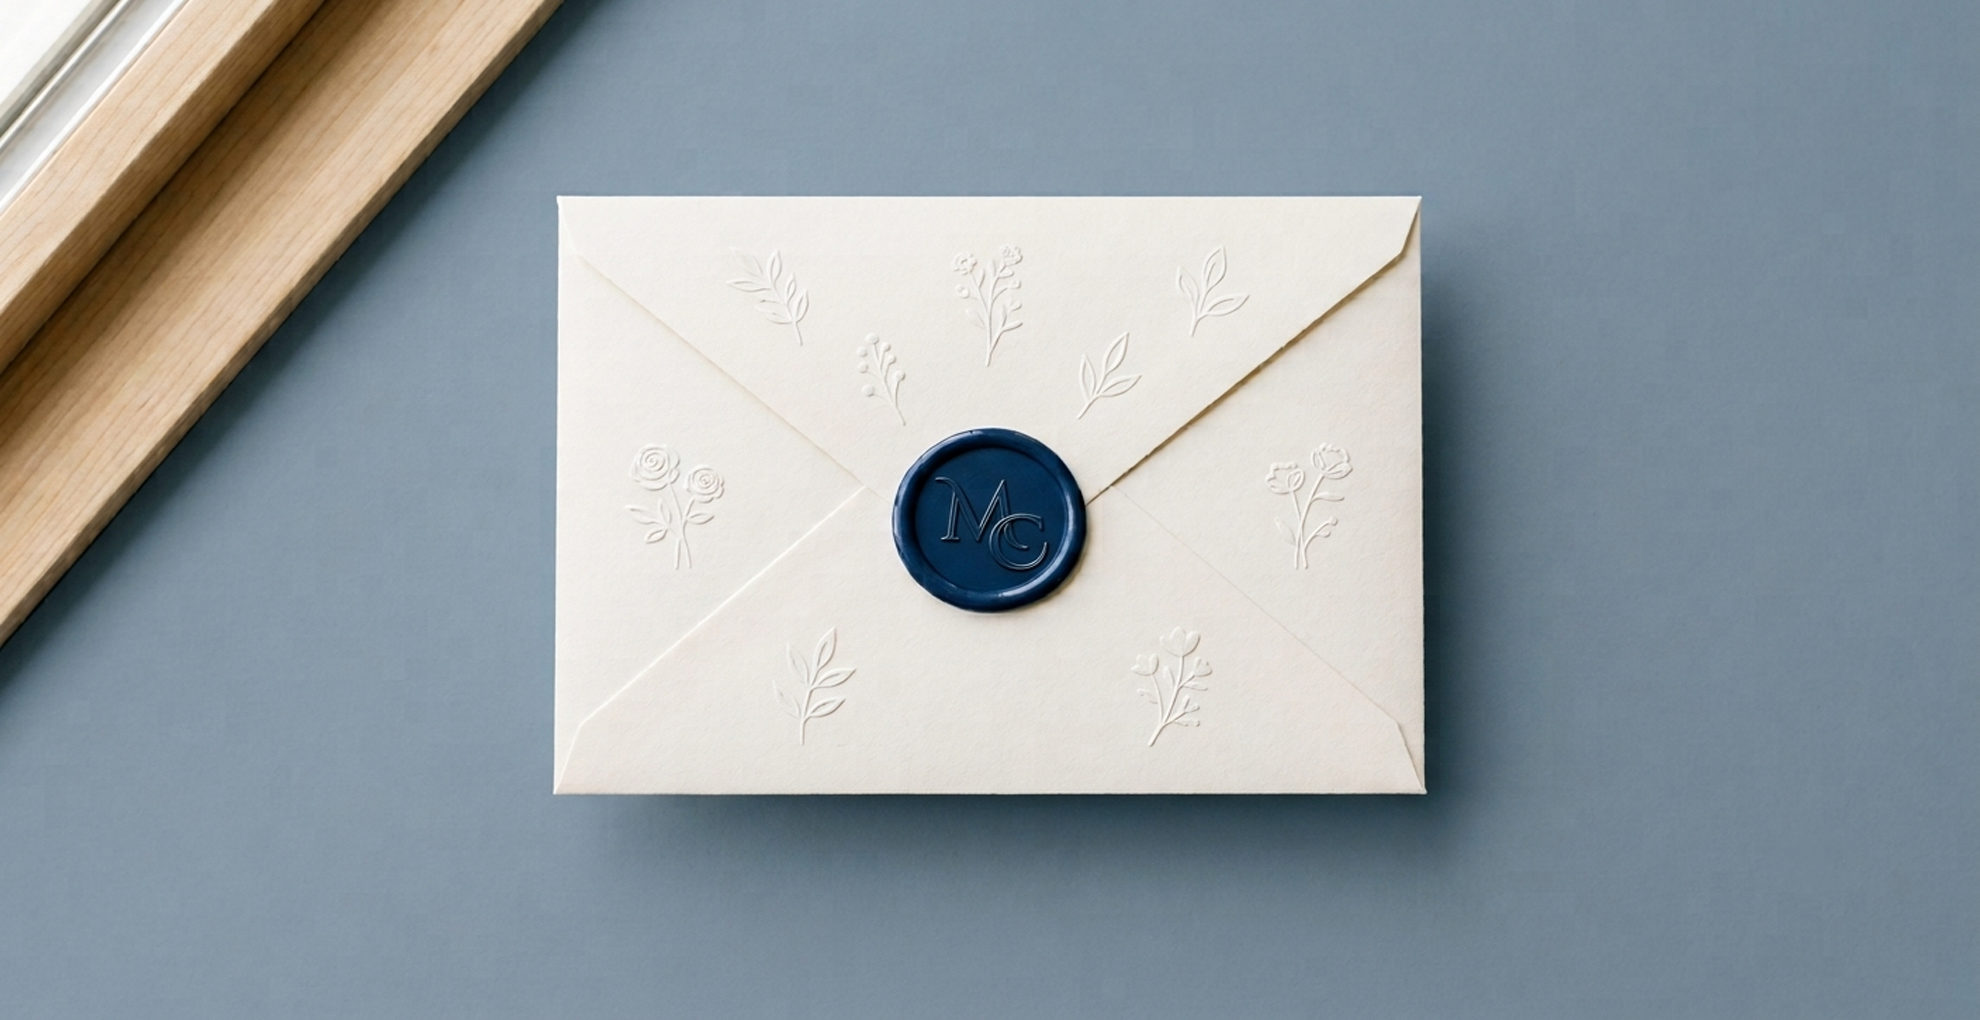
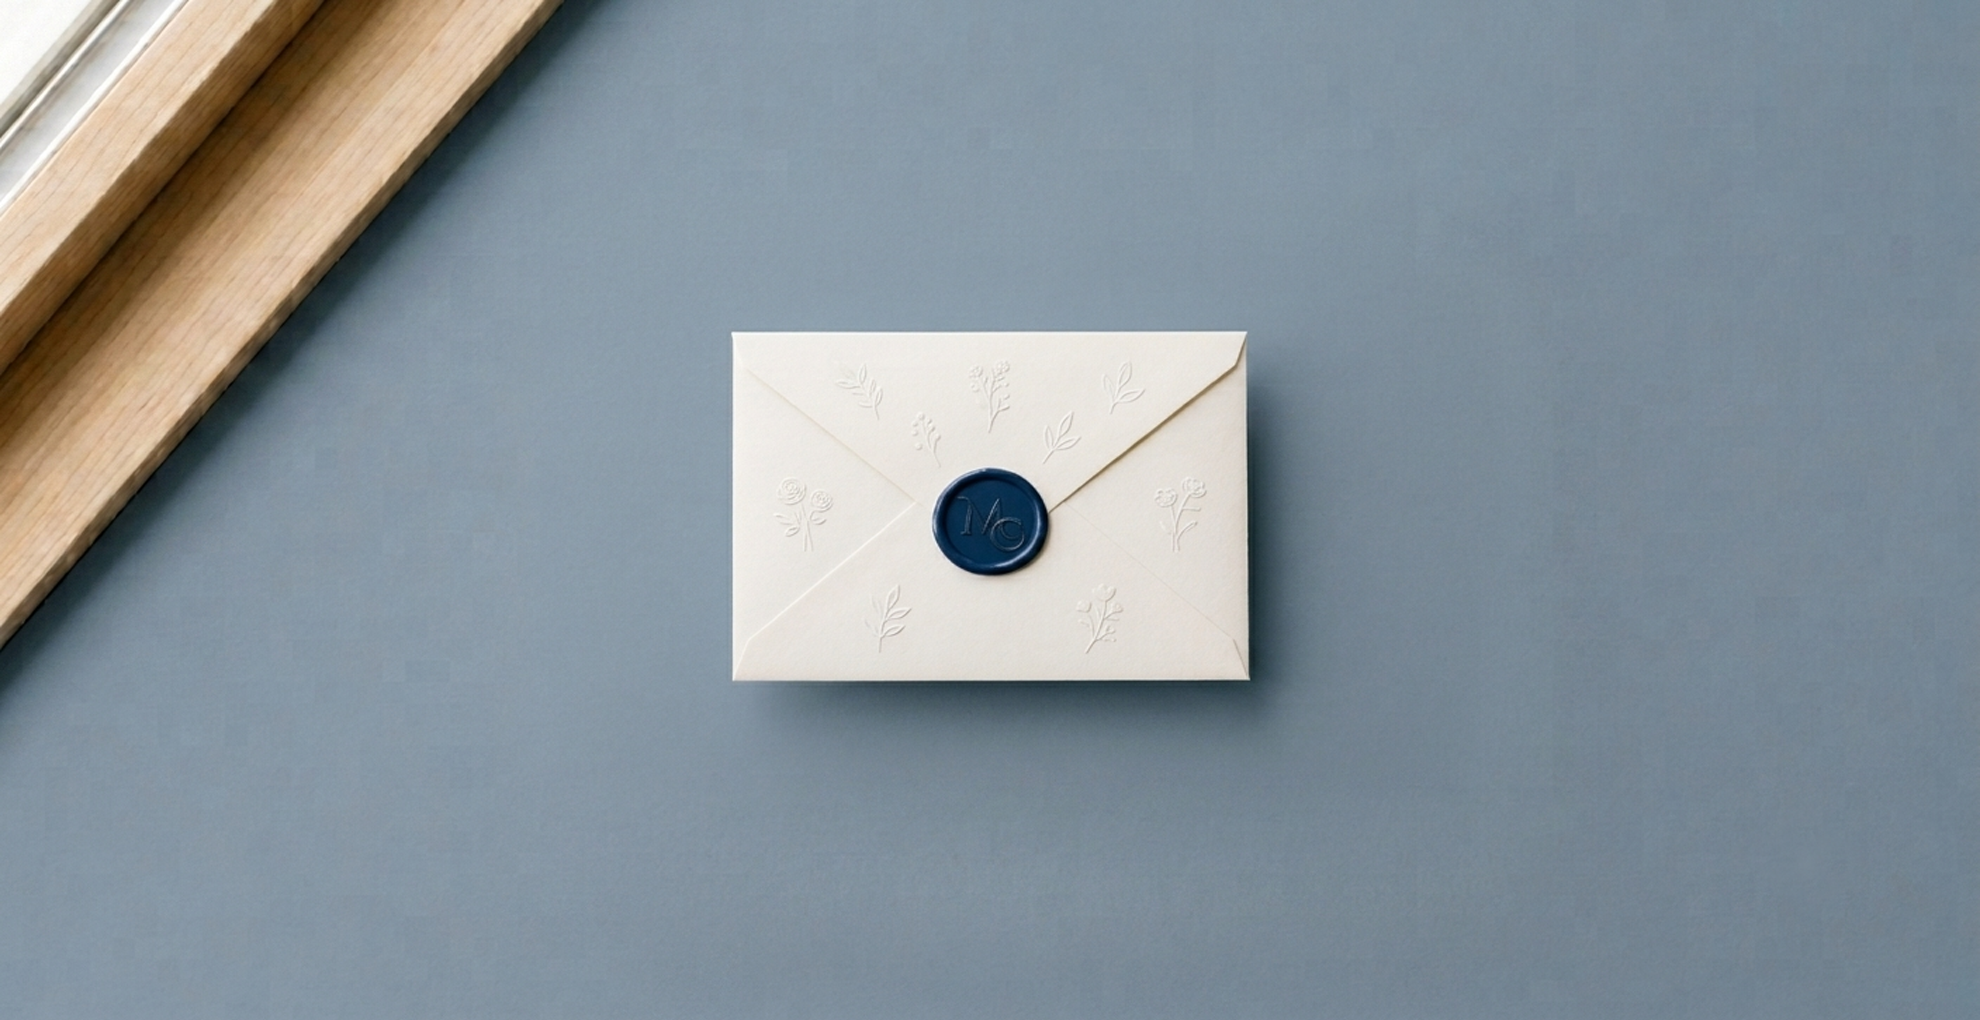
change background

Changed region(s): [[0.2773, 0.1824, 0.7702, 0.8814]]

diff --git a/src/components/IntroScreen.vue b/src/components/IntroScreen.vue
@@ -11,7 +11,7 @@
         <span></span><i></i><span></span>
       </div>
 
-      <p class="intro-content__date">January 17, 2027</p>
+      <!-- <p class="intro-content__date">January 17, 2027</p> -->
 
       <button class="intro-button" type="button" :disabled="isOpening" @click="openInvitation">
         <span>{{ isOpening ? 'Opening Invitation' : 'Open Invitation' }}</span>
@@ -208,7 +208,7 @@ const openInvitation = () => {
   display: flex;
   align-items: center;
   justify-content: center;
-  padding-top: 80px;
+  padding-top: 100px;
   gap: .8rem;
   margin: clamp(1.6rem, 4vw, 2.5rem) 0 1.2rem;
 }
